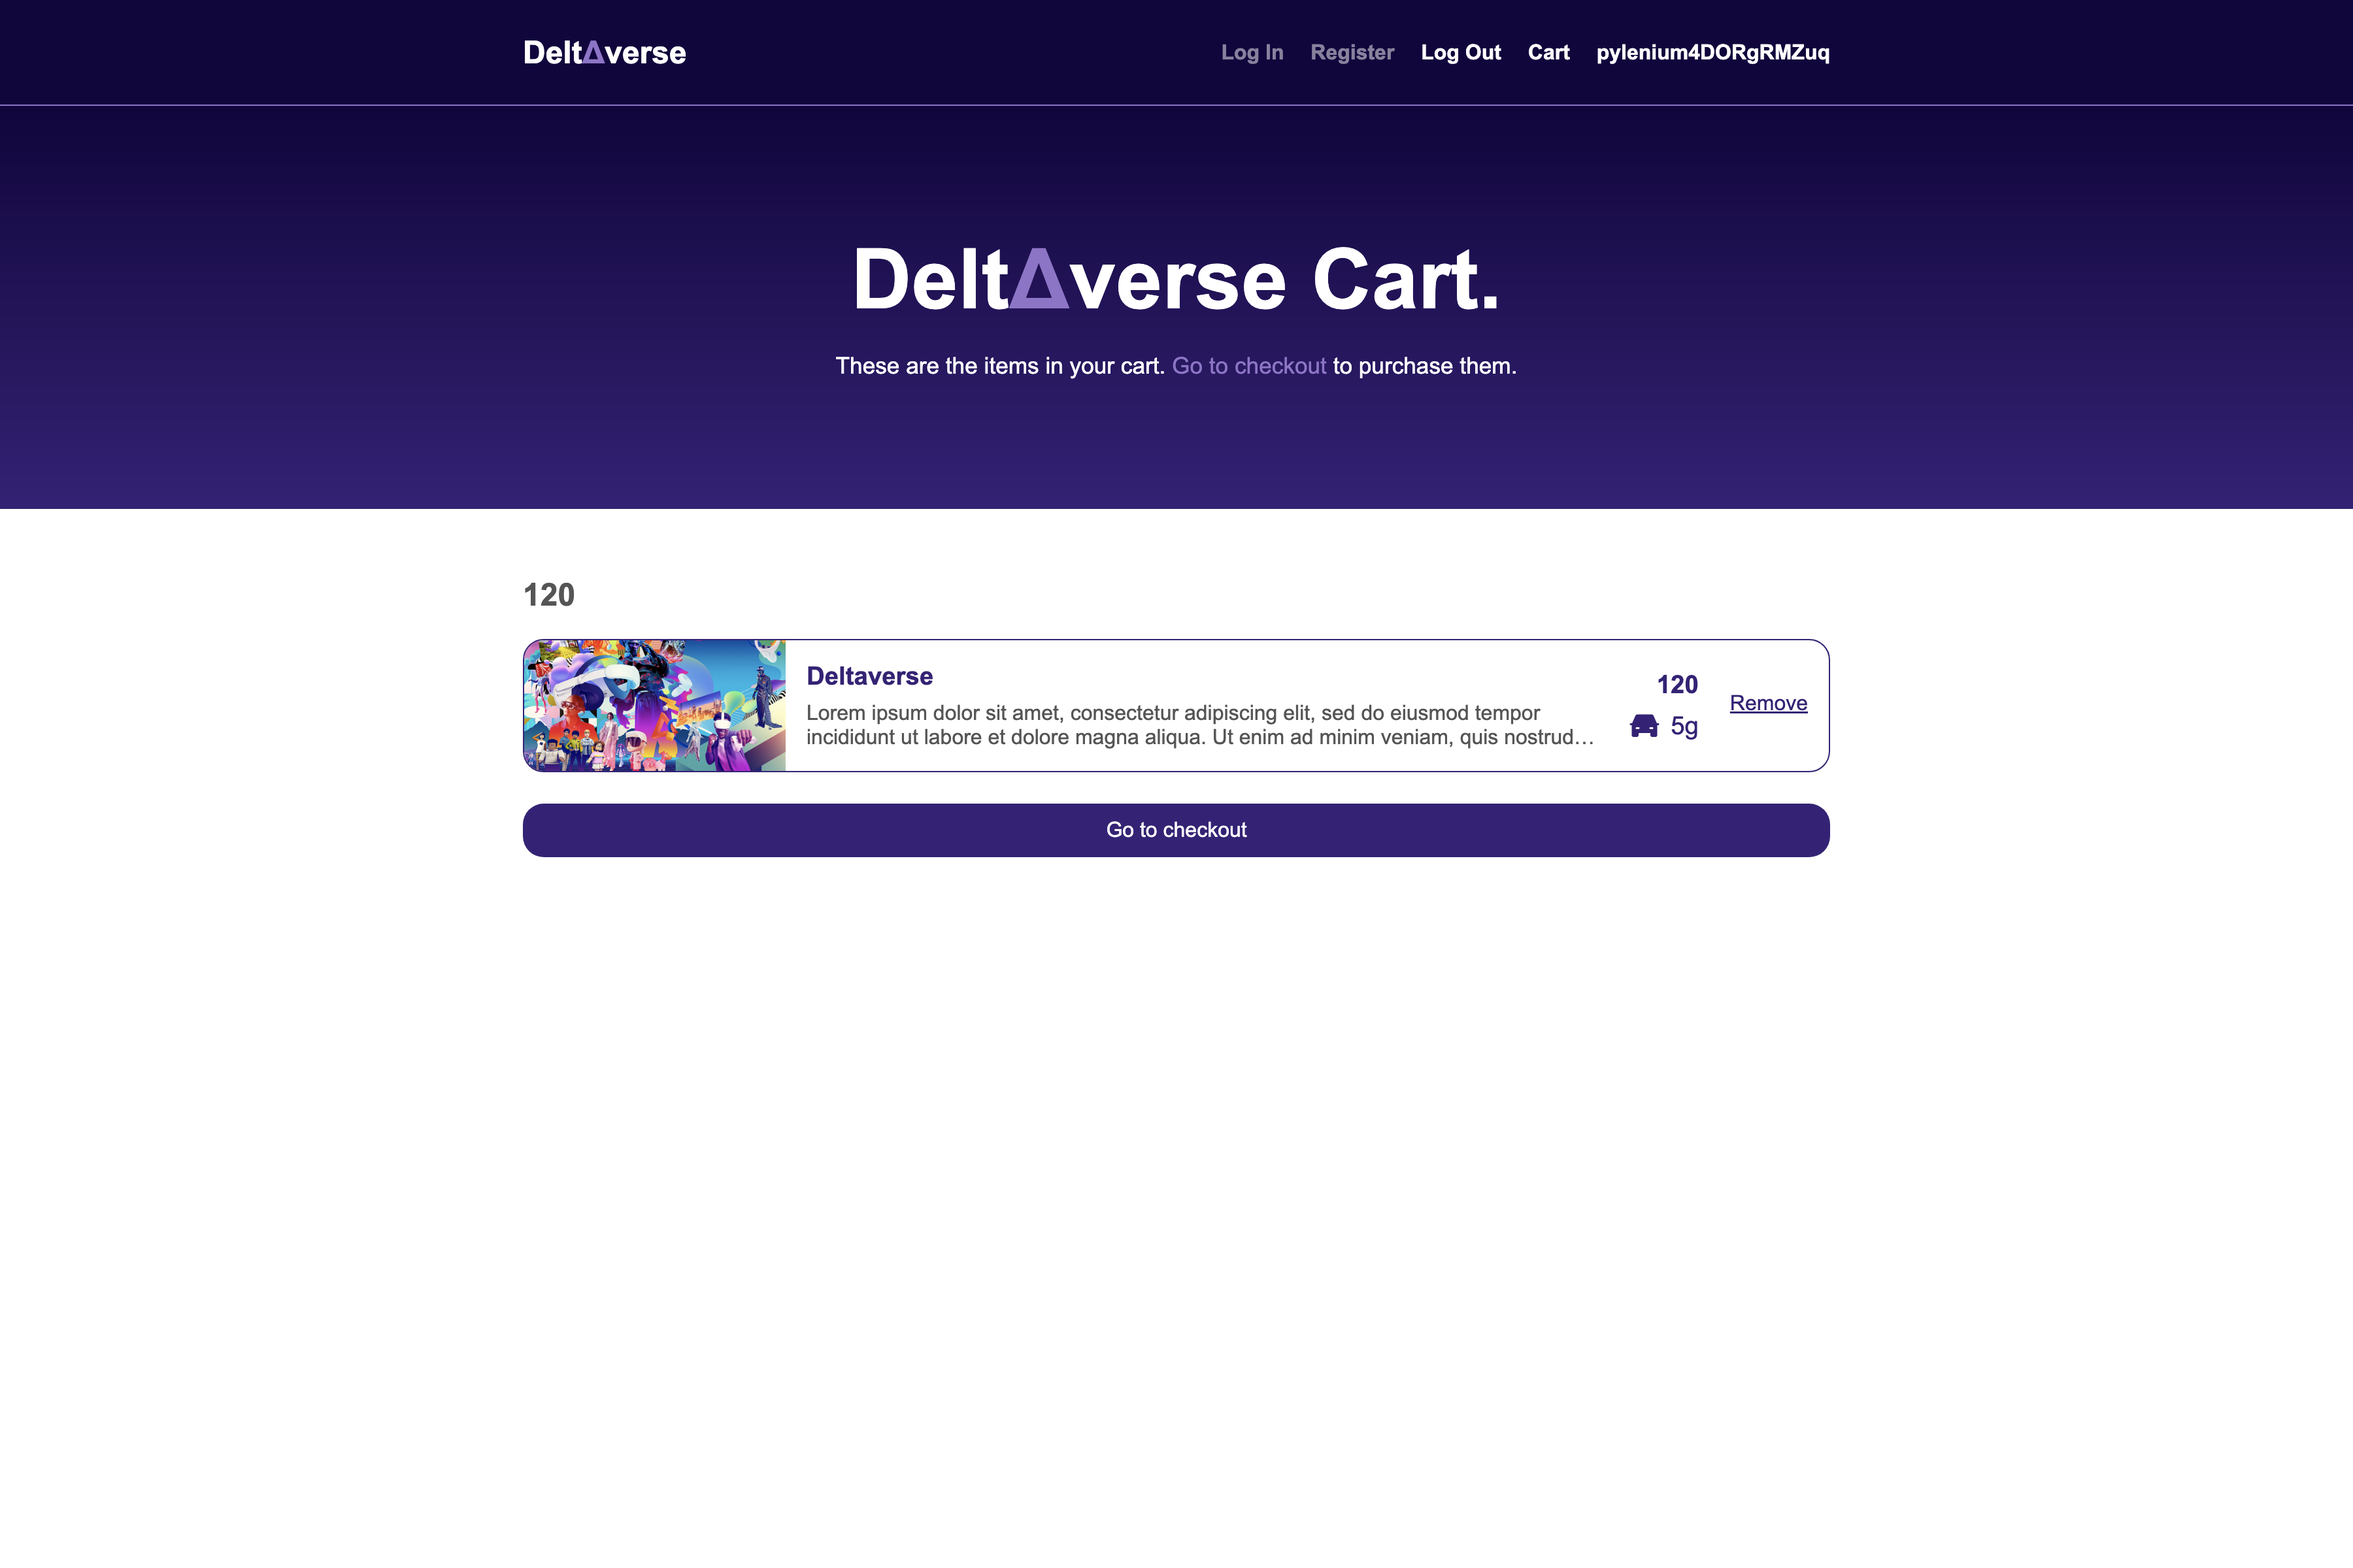
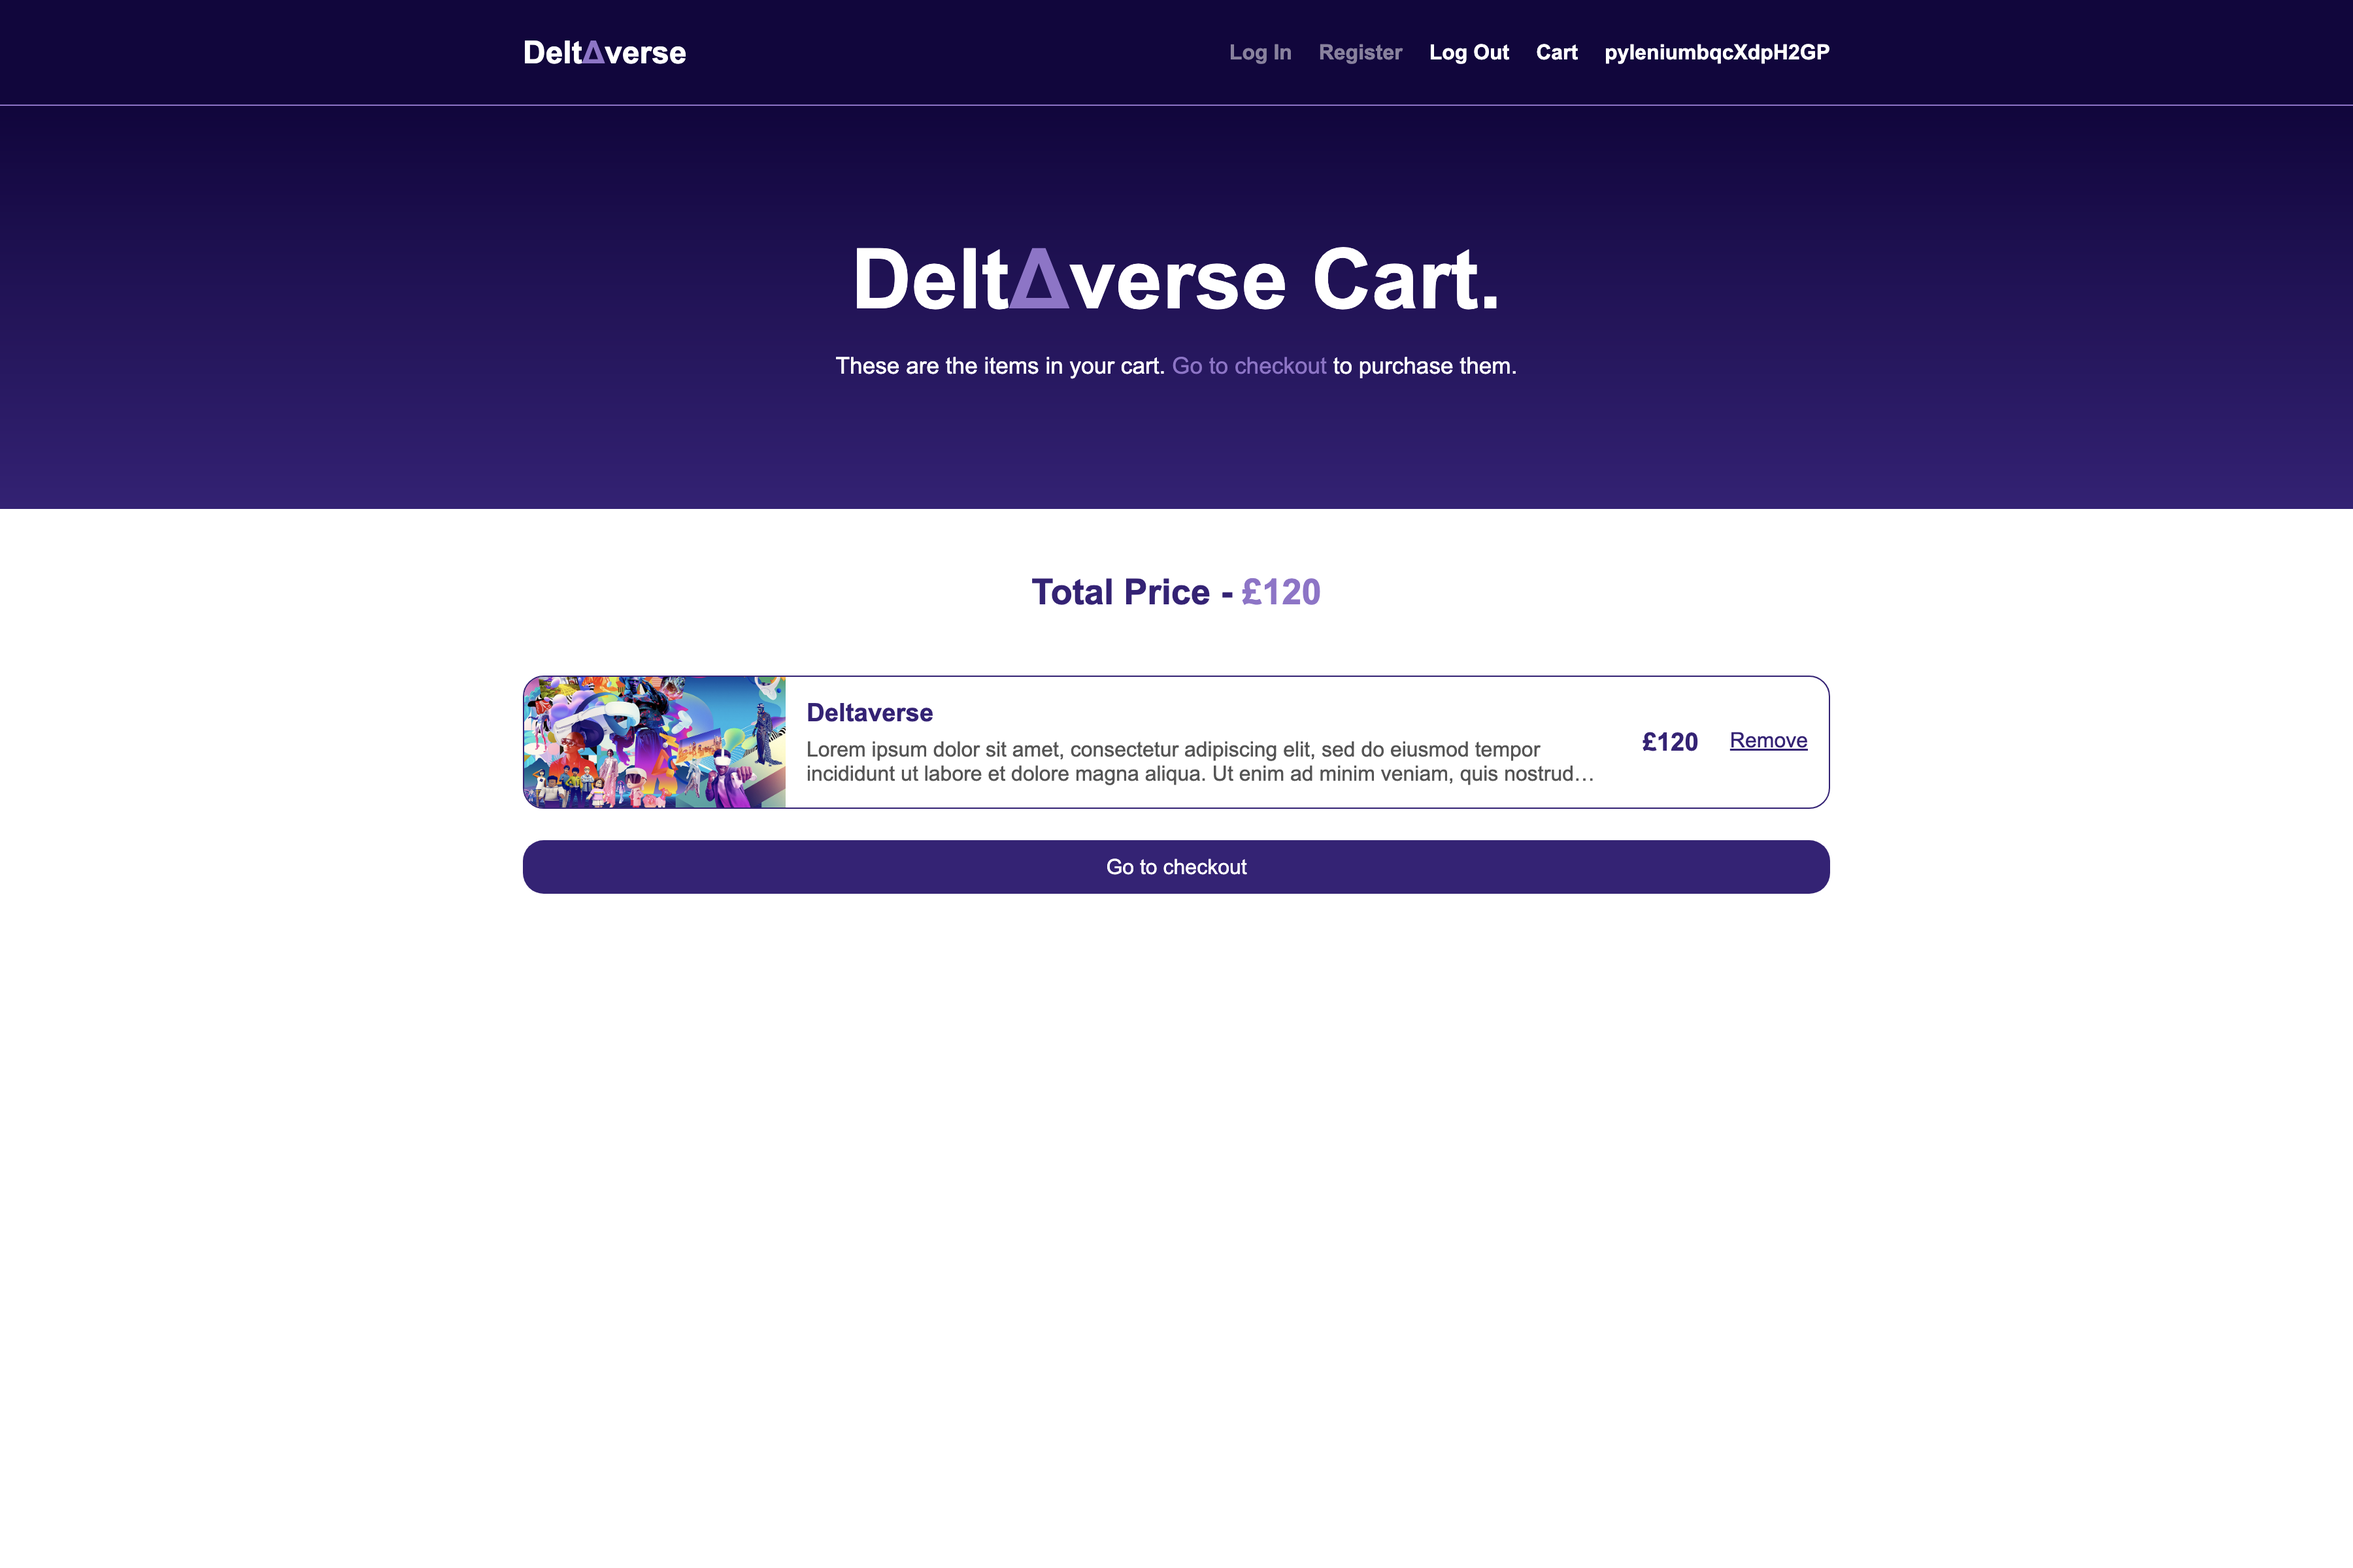
change to pass tests and fix form validation

Changed region(s): [[0.2178, 0.375, 0.7778, 0.5938], [0.5289, 0.0312, 0.7778, 0.0625], [0.4356, 0.3438, 0.56, 0.4062]]

diff --git a/shop/templates/product.html b/shop/templates/product.html
@@ -13,7 +13,16 @@
           <p class="item-title" style="margin-right: auto;">{{ item.name }}</p>
           <div class="item-tag-container">
             <p class="item-tag">£{{ item.price }}</p>
-            <p class="item-tag">{{ item.carbon }}g</p>
+            <div class="item-tag" style="display: flex;">
+              <img
+                src="{{ url_for('static', filename='images/carbon.svg') }}"
+                alt="carbon emmisions"
+                style="margin-bottom: 0.2rem;"
+              />
+              <p class="item-carbon" style="margin: 0 0 0 0.5rem">
+                {{ item.carbon }}g
+              </p>
+            </div>
             <p class="item-tag">{{ item.category.name }}</p>
           </div>
           <p>{{ item.description }}</p>
@@ -57,7 +66,7 @@
       {% endfor %}
     {% endif %}
     {% if current_user.is_authenticated %}
-      <form method="POST" action="" class="review-form">
+      <form method="POST" action="" class="review-form" novalidate style="text-align: left;">
         <!-- Top -->
         <h3 class="review-form-header">Review {{ item.name }}</h3>
         {{ form.csrf_token }} 
@@ -65,12 +74,12 @@
         <!-- Review Title -->
         {{ form.title.label }} {{ form.title }}
         {% for error in form.title.errors %}
-          <span class="error">{{ error }}</span>
+          <span class="error" style="text-align: left;">{{ error }}</span>
         {% endfor %} 
         <!-- Review Text -->
         {{ form.text.label }} {{ form.text }}
         {% for error in form.text.errors %}
-          <span class="error">{{ error }}</span>
+          <span class="error" style="text-align: left;">{{ error }}</span>
         {% endfor %} 
         <!-- Review Rating -->
         {{ form.rating.label }}
@@ -83,7 +92,7 @@
           {% endfor %}
         </div>
         {% for error in form.rating.errors %}
-          <span class="error">{{ error }}</span>
+          <span class="error" style="text-align: left;">{{ error }}</span>
         {% endfor %} 
         <!-- Review Submit -->
         <input type="submit" value="Review Product" class="button"/>

diff --git a/shop/templates/layout.html b/shop/templates/layout.html
@@ -34,11 +34,11 @@
     </script>
   </head>
   <body>
-    {% with messages = get_flashed_messages() %}
+    {% with messages = get_flashed_messages(with_categories=true) %}
       {% if messages %}
         <div class="flash-container">
-          {% for message in messages %}
-            <div class="flash login_error">
+          {% for category, message in messages %}
+            <div class="flash {{ category }}" id="{{ category }}">
               <p style="margin-right: 0.5rem;">{{ message }}</p>
               <img src="{{ url_for('static', filename='images/x.svg') }}" alt="cross" onclick=delete_flash(this) style="margin-left: auto;">
             </div>
@@ -47,7 +47,8 @@
       {% endif %}
     {% endwith %}
     <script>
-      var flashTop = $('.flash-container').offset().top;
+      var flash = $('.flash-container').offset()
+      var flashTop = flash ? flash.top : undefined;
       $(window).scroll(function() {                 
           var currentScroll = $(window).scrollTop(); 
           if (currentScroll >= flashTop - 8) {           

diff --git a/shop/templates/cart.html b/shop/templates/cart.html
@@ -14,7 +14,9 @@
 </div>
 <div class="content-container">
   <div class="wrapper">
-    <h2 id="total_price" >{{ total_price }}</h2>
+    {% if items[0] %}
+      <h2 class="total_price_text" >Total Price - <span class="highlight">£<span id="total_price">{{ total_price }}</span></span></h2>
+    {% endif %}
     {% for item in items %}
     <a href="{{ url_for('product', product_id=item.id) }}" class="cart-item">
       <div class="cart-picture-container">

diff --git a/shop/templates/checkout.html b/shop/templates/checkout.html
@@ -24,7 +24,7 @@
   <div class="wrapper" style="display: flex">
     <div class="left-content">
       <p class="your-cart-text">Payment Details</p>
-      <form method="POST" action="" class="form-container checkout_form">
+      <form method="POST" action="" class="form-container checkout_form" novalidate>
         {{ form.csrf_token }} 
         {{ form.name.label(style="margin-top: 0") }} {{ form.name }} 
         {% for error in form.name.errors %}

diff --git a/shop/static/styles/style.css b/shop/static/styles/style.css
@@ -5,7 +5,7 @@
   --dark-gray: #555555;
   --light-gray: #555555;
   --white: white;
-  --error-color: #ff0033;
+  --error-color: #cc0000;
   /* old-primary #b78efe */
   --wrapper-width: 1000px;
   --transition: all ease-out 0.2s;
@@ -171,10 +171,10 @@ button {
 }
 
 @keyframes slideInLeft {
-  0% {
+  /* 0% {
     transform: translateX(100%);
-  }
-  10% {
+  } */
+  0% {
     transform: translateX(0%);
   }
   90% {

diff --git a/shop/templates/register.html b/shop/templates/register.html
@@ -12,7 +12,7 @@
 </div>
 <div class="content-container">
   <div class="wrapper">
-    <form method="POST" action="" class="form-container" autocomplete="off">
+    <form method="POST" action="" class="form-container" novalidate>
       {{ form.csrf_token }} 
       {{ form.username_new.label }} {{ form.username_new }} 
       {% for error in form.username_new.errors %}

diff --git a/shop/templates/login.html b/shop/templates/login.html
@@ -12,7 +12,7 @@
 </div>
 <div class="content-container">
   <div class="wrapper">
-    <form method="POST" action="" class="form-container">
+    <form method="POST" action="" class="form-container" novalidate>
       {{ form.csrf_token }} 
       {{ form.username.label }} {{ form.username }} 
       {% for error in form.username.errors %}

diff --git a/shop/static/styles/cart.css b/shop/static/styles/cart.css
@@ -109,3 +109,11 @@
   font-size: 1.1rem;
   color: var(--dark-gray);
 }
+
+.total_price_text {
+  text-align: center;
+  font-weight: bold;
+  font-size: 1.7rem;
+  margin: 1rem 0 3rem 0;
+  color: var(--secondary-color);
+}

diff --git a/shop/forms.py b/shop/forms.py
@@ -6,15 +6,15 @@ from shop.models import User
 
 class RegistrationForm(FlaskForm):
     username_new = StringField('Username', validators=[
-        DataRequired(),
-        Length(min=5, max=30),
+        DataRequired(message="Username is required."),
+        Length(min=5, max=30, message="Username must be between 5 and 30 characters long."),
     ])
     password_new = PasswordField('Password', validators=[
-        DataRequired(),
-        Length(min=5, max=30),
+        DataRequired("Password is required."),
+        Length(min=5, max=30, message="Password must be between 5 and 30 characters long."),
     ])
     password_confirm = PasswordField('Confirm Password', validators=[
-        DataRequired(),
+        DataRequired("Confirm Password is required."),
         EqualTo('password_new', message='Passwords do not match. Try again.')
     ])
     submit = SubmitField('Register')
@@ -26,18 +26,18 @@ class RegistrationForm(FlaskForm):
 
 class LoginForm(FlaskForm):
     username = StringField('Username', validators=[DataRequired(message="Username is required.")])
-    password = PasswordField('Password', validators=[DataRequired()])
+    password = PasswordField('Password', validators=[DataRequired(message="Password is required.")])
     submit = SubmitField('Log In')
 
 class ReviewForm(FlaskForm):
-    rating = RadioField('Rating', validators=[DataRequired()], choices=['1', '2', '3', '4', '5'])
-    title = StringField('Title', validators=[DataRequired(), Length(min=3, max=120)])
-    text = TextAreaField('Review', validators=[Length(max=240)])
+    rating = RadioField('Rating', validators=[DataRequired(message="Rating is required.")], choices=['1', '2', '3', '4', '5'])
+    title = StringField('Title', validators=[DataRequired(message="Title is required."), Length(min=3, max=120, message="Title must be between 3 and 120 characters long.")])
+    text = TextAreaField('Review', validators=[Length(max=240, message="Review must be 240 or less characters long.")])
     submit = SubmitField('Review Product')
 
 class CheckoutForm(FlaskForm):
-    name = StringField("Card Holder's Name", validators=[DataRequired()])
-    card_no = IntegerField('Card Number', validators=[DataRequired()])
+    name = StringField("Card Holder's Name", validators=[DataRequired(message="Card Holder's name is required.")])
+    card_no = IntegerField('Card Number', validators=[DataRequired(message="Card Number is required.")])
     submit = SubmitField('Checkout')
 
     def validate_card_no(self, card_no):

diff --git a/shop/routes.py b/shop/routes.py
@@ -83,12 +83,13 @@ def product(product_id):
         else:
             if not current_user.is_authenticated:
                 flash('You must be logged in to review an item.')
-            else:
+            elif form.validate_on_submit():
                 review = Review(rating=form.rating.data, title=form.title.data , text=form.text.data, item_id=item.id)
                 review.user = current_user
                 item.reviews.append(review)
                 db.session.commit()
                 flash(f'Your review has been added to {item.name}')
+                return redirect(url_for('product', product_id=item.id))
     return render_template('product.html', item=item, form=form )
 
 @app.route("/login", methods=['GET', 'POST'])
@@ -99,12 +100,12 @@ def login():
     form = LoginForm()
     if form.validate_on_submit():
         user = User.query.filter_by(username=form.username.data).first()
-        if user:
+        if user and user.verify_password(form.password.data):
             login_user(user)
             flash('You have been successfully logged in.')
             return redirect(url_for('home'))
         else:
-            flash('Invalid password or username.')
+            flash('Invalid password or username.', "login_error")
     return render_template('login.html', form=form)
 
 @app.route("/register", methods=['GET', 'POST'])
@@ -190,7 +191,7 @@ def checkout():
         current_user.inventory.extend(current_user.cart)
         current_user.cart = []
         db.session.commit()
-        flash("Checkout successful.")
+        flash("Checkout successful.", "checkout_success")
         return redirect(url_for('profile'))
     
     total_price = 0
